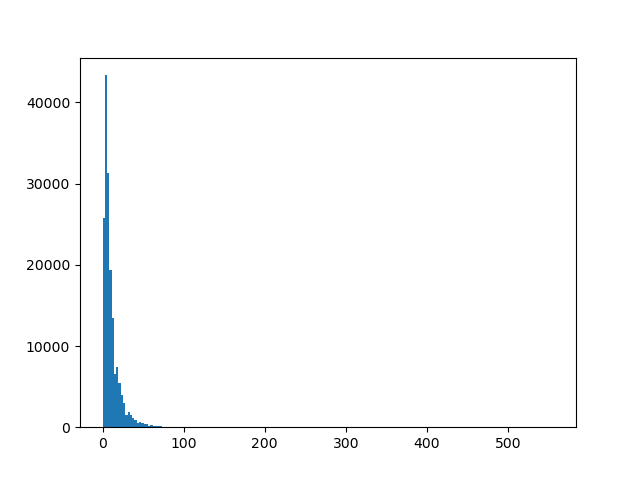
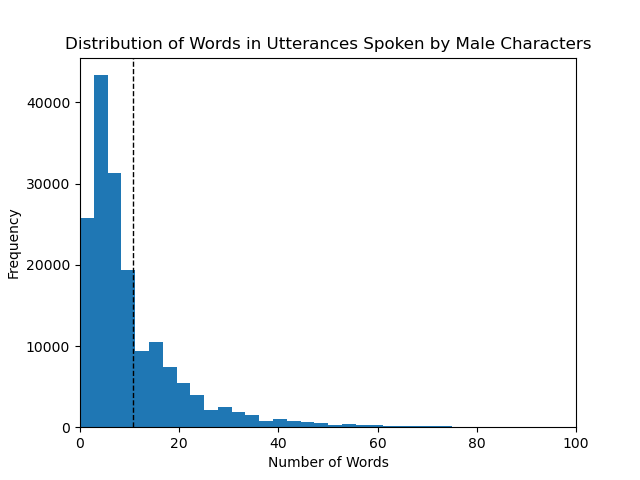
Added histograms for words in an utterance

diff --git a/graphdata.py b/graphdata.py
@@ -6,16 +6,16 @@ num_female_words = []
 num_genderless_words = []
 
 with open(r"data/male_text.txt") as male:
-    male_i = 0
+    male_num = 0
     male_total = 0
     for line in male:
-        line.strip()
+        line = line.strip()
         words = line.split()
         length = len(words)
         num_male_words.append(length)
-        male_total += length 
-        male_i += 1
-    male_avg = (male_total/male_i)
+        male_total += length
+        male_num += 1
+    male_avg = (male_total/male_num)
 
 with open(r"data/female_text.txt") as female:
     fem_num = 0
@@ -28,6 +28,7 @@ with open(r"data/female_text.txt") as female:
         fem_total += length
         fem_num += 1
     fem_avg = (fem_total/fem_num)
+
 with open(r"data/genderless_text.txt") as fin:
     gender_num = 0
     gender_total = 0
@@ -38,7 +39,7 @@ with open(r"data/genderless_text.txt") as fin:
         num_genderless_words.append(length)
         gender_total += length
         gender_num += 1
-    genderless_avg = (gender_num/gender_num)
+    genderless_avg = (gender_total/gender_num)
 
 
 
@@ -50,11 +51,55 @@ unique_num_male = np.unique(num_male_words)
 unique_num_female = np.unique(num_female_words)
 unique_num_genderless = np.unique(num_genderless_words)
 
-plt.hist(num_male_words, bins=len(unique_num_male))
+plt.xlim(0,100)
+plt.title('Distribution of Words in Utterances Spoken by Male Characters')
+plt.xlabel('Number of Words')
+plt.ylabel('Frequency')
+plt.axvline(num_male_words.mean(), color='k', linestyle='dashed', linewidth=1)
+plt.hist(num_male_words, bins=200)
 plt.savefig("figures/num_male_words.png")
+plt.close()
 
-plt.hist(num_female_words, bins=len(unique_num_female))
+plt.xlim(0,100)
+plt.title('Distribution of Words in Utterances Spoken by Female Characters')
+plt.xlabel('Number of Words')
+plt.ylabel('Frequency')
+plt.axvline(num_female_words.mean(), color='k', linestyle='dashed', linewidth=1)
+plt.hist(num_female_words, bins=100)
 plt.savefig("figures/num_female_words.png")
+plt.close()
 
-plt.hist(num_genderless_words, bins=len(unique_num_genderless))
+plt.xlim(0,100)
+plt.title('Distribution of Words in Utterances Spoken by Genderless Characters')
+plt.xlabel('Number of Words')
+plt.ylabel('Frequency')
+plt.axvline(num_genderless_words.mean(), color='k', linestyle='dashed', linewidth=1)
+plt.hist(num_genderless_words, bins=100)
 plt.savefig("figures/num_genderless_words.png")
+plt.close()
+
+n_bins = 50
+fig, axs = plt.subplots(1, 3, sharey=True, tight_layout=False)
+plt.suptitle('Distribution of Words in Utterances Spoken by Characters')
+axs[0].set_xlim([0,100])
+axs[1].set_xlim([0,100])
+axs[2].set_xlim([0,100])
+axs[0].set_xlabel('# of Words')
+axs[1].set_xlabel('# of Words')
+axs[2].set_xlabel('# of Words')
+axs[0].set_ylabel('Frequency')
+axs[0].set_title('Male')
+axs[1].set_title('Female')
+axs[2].set_title('Genderless')
+axs[0].axvline(num_male_words.mean(), color='k', linestyle='dashed', linewidth=1)
+axs[1].axvline(num_female_words.mean(), color='k', linestyle='dashed', linewidth=1)
+axs[2].axvline(num_genderless_words.mean(), color='k', linestyle='dashed', linewidth=1)
+axs[0].hist(num_male_words, bins= n_bins)
+axs[1].hist(num_female_words, bins = n_bins)
+axs[2].hist(num_genderless_words, bins = n_bins)
+plt.savefig("figures/combined_num_plots.png")
+plt.close()
+
+print('The average number of words in an utterance spoken by a male character is %d' % male_avg)
+print('The average number of words in an utterance spoken by a female character is %d' % fem_avg)
+print('The average number of words in an utterance spoken by a genderless character is %d' % genderless_avg)
